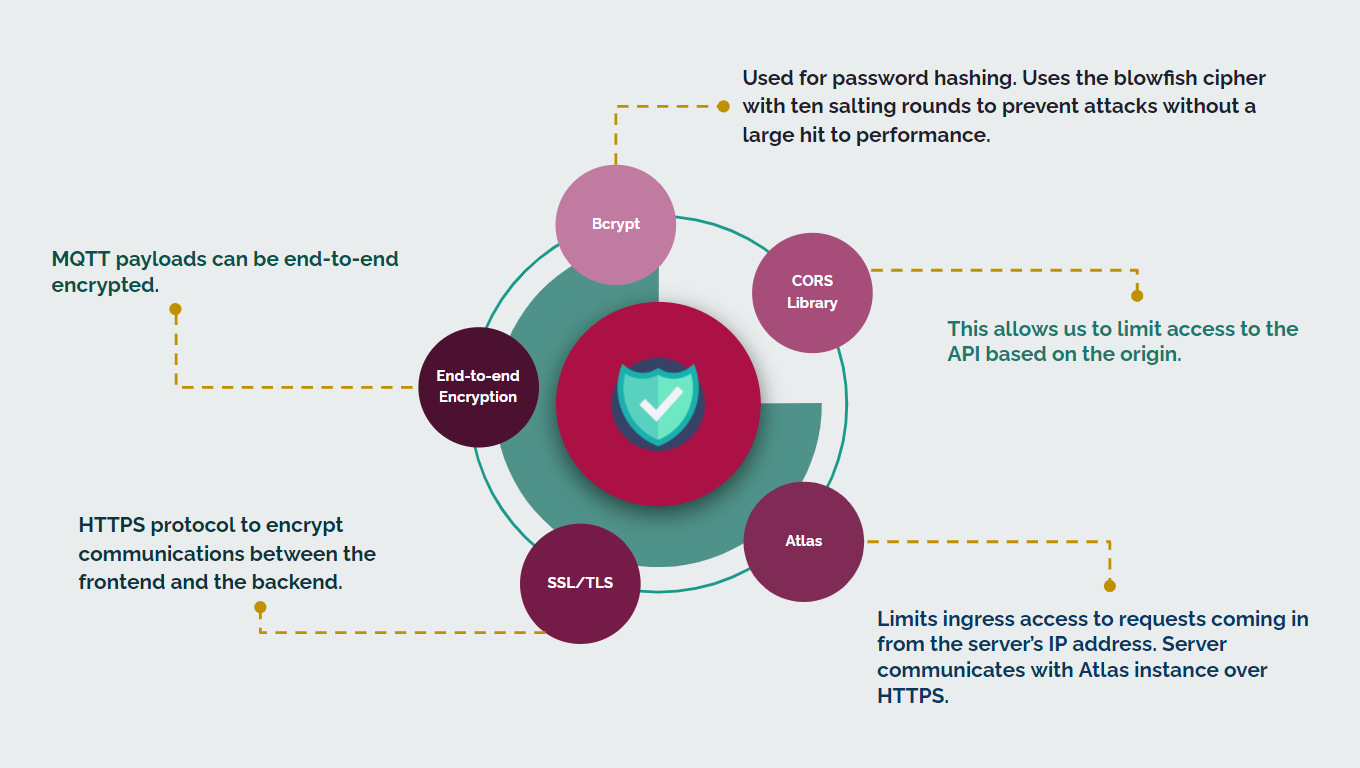
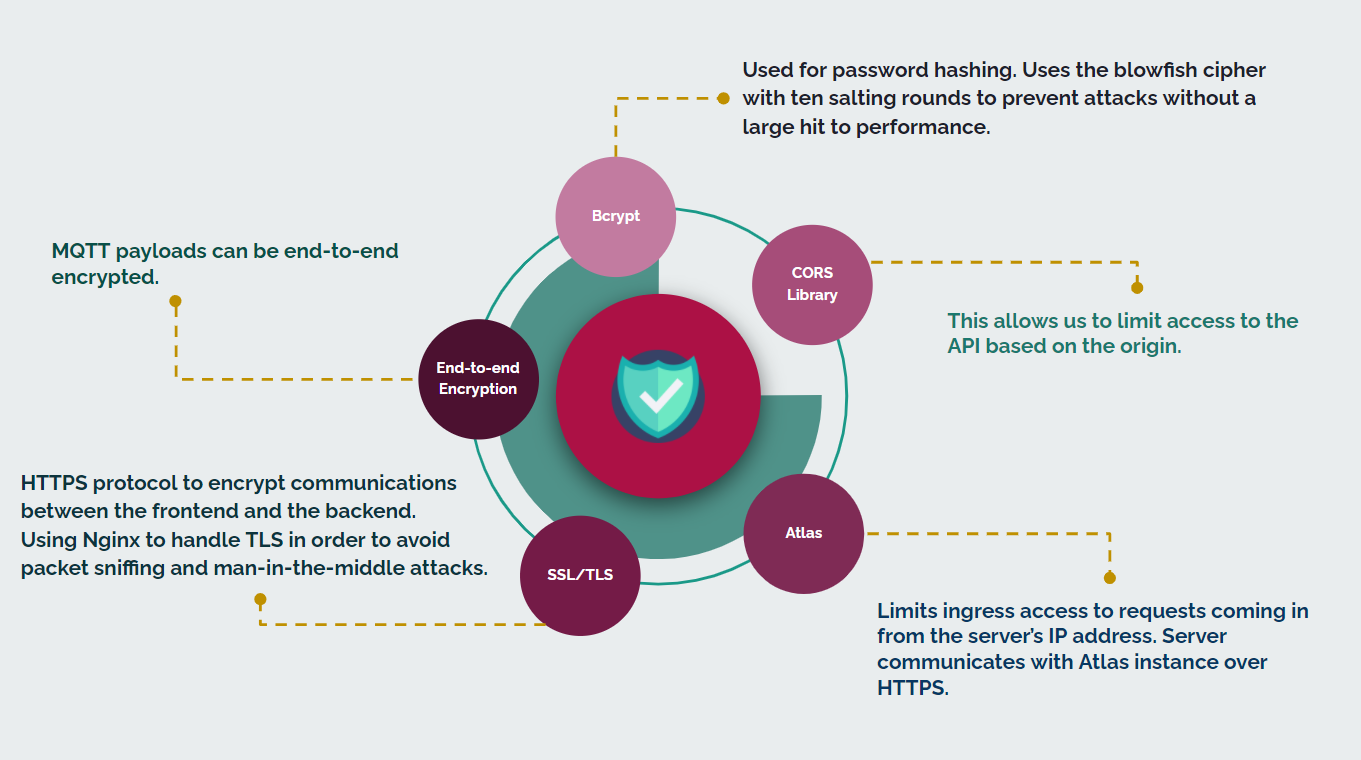
REST API testing in the website and the backend

diff --git a/docs/design.html b/docs/design.html
@@ -110,7 +110,7 @@
                 
                 <img src="images/SolArch.png" class="d-block rounded w-100 mb-5"  alt="Solution Architecture">
                 <ul>
-                 <p>Our solution architecture consists of entrance/exit Nodes, the parking spot nodes, the mobile app and management portal representing the frontend of the system 
+                 <p>Our solution architecture consists of entrance/exit nodes, the parking spot nodes, the mobile app and management portal representing the frontend of the system 
                    and the cloud server. The hardware nodes have been given their own power supplies and the all the frontend software and the hardware nodes 
                    are connected to the cloud server via Wi-Fi.
                  </p>
@@ -244,12 +244,12 @@
               </div>
 
               <ul>
-                <p>The data and control flow of the system gets initiated at the entrance node once a user enters into the parking lot. The licenese plate number 
-                  of that vehicle will be scanned by the entrance node and it will be sent to the server along with the check-in time. In the meantime, the mobile app 
-                  will authenticates the user using their location. Once a parking spot is sent by the server, the user will be guided to that spot through the use of clear images using the 
-                  mobile phone and the necessary updates will be made in the management portal. Once the user reaches the parking spot, the spot node will check and update the status of the spot (occupied or not). 
+                <p>The data and control flow of the system gets initiated at the entrance node once a user enters into the parking lot. The license plate number 
+                  of that vehicle will be read by the entrance node and it will be sent to the server along with the check-in time. In the meantime, the mobile app 
+                  will authenticates the user using their location. Once an empty parking spot number is sent by the server, the user will be guided to that spot through the use of clear images using the 
+                  mobile app and the necessary updates will be made in the management portal. Once the user reaches the parking spot, the spot node will check and update the status of the spot (occupied or not). 
                   Once the user leaves their assigned spot and reaches the exit node, the exit node will obtain the license plate number and the check-out time and will send that information to the server. 
-                  Once the cost has been processed by the server based on the hourly rate set by the managers of the parking lot, the amount to be paid will be sent to the mobile app while displaying the value on the LCD display.
+                  Once the cost has been processed by the server based on the hourly rate set by the managers of the parking lot, the amount to be paid will be sent to the mobile app and will be displayed on the LCD display.
                 </p>
                </ul>
               
@@ -380,8 +380,27 @@
               CORS (Cross-Origin Resource Sharing) is used for security to limit access to the API based on the orgin. 
               Atlas will limit ingress access to requests coming in from the server’s IP address (Server communicates with Atlas instance over HTTPS). 
               Access Management Control is deployed within the system by covering the 3A's; Authentication, Authorization and Accountability. 
-              Jsonwebtoken is used for user authentication, while using the location of the user checked at the entrance. We only allow GET method access for the mobile app users using CORS.
-              
+              Jsonwebtoken is used for user authentication, while the location of the user is checked at the entrance. We only allow GET method access for the mobile app users using CORS.
+              For authentication we wiil be passing the auth-token for every API request as a header. 
+              We are using Transport Layer Security (TLS) to secure the connection and the data. This technology encrypts data before it is sent from the client to the server, thus preventing some common hacks. 
+              Without TLS  POST requests will be visible so their network traffic is vulnerable to packet sniffing and man-in-the-middle attacks.
+              Utilizing Secure Socket Layer (SSL) encryption was done while using Nginx to handle TLS.
+
+
+             </p>
+            </ul>
+
+            <img src="images/security2.png" class="d-block rounded w-100 mb-5 mt-5"  alt="Solution Architecture">
+            <ul>
+             <p>Validatorjs is used in order to validate user input to limit SQL injections and XSS attacks.
+               This is done to validate every input for the frontend since some attackers can send sql commands or harmful java script code to execute. 
+               Validatorjs is used to prevent such attacks by checking whether the input is a valid email.
+               Using npm to manage our application’s dependencies is powerful and convenient. But the packages that we use may contain critical security vulnerabilities that could also affect our application.
+              To avoid such vulnerabilities, we will be using Snyk which offers both a command-line tool and a Github integration that checks our application against Snyk’s open source vulnerability database for 
+              any known vulnerabilities in our dependencies.
+
+              X-Powered-By reveals information about the technologies used in an app. 
+              Therefore, to avoid outsiders exploit server security weaknesses of our server technology we will disabling this header. 
 
 
              </p>

diff --git a/docs/development.html b/docs/development.html
@@ -148,7 +148,7 @@
           
           <ul class="mb-5 mt-5">
             <p>React Native was used to develop the mobile app for the car park users. They can utilize the app to make reservations and to add their vehicle details once registered.
-              The users will get push notifications for reservation confirmations and cancellations.
+              The users will get notifications for reservation confirmations and cancellations.
               Once assigned to a spot by the server, the mobile app will provide clear images to guide the user to the relevant parking spot. 
               The app can also be used to make payments once they are at the exit node.
             </p>
@@ -167,12 +167,45 @@
 				<div class="col-md-7 text-center heading-section ftco-animate">
 					<span class="subheading">Testing</span>
 					<h2 class="mb-3">The Plan for Testing</h2>
-				</div>
+
+        </div>
+          <img src="images/Testing.png" class="d-block rounded w-100 mb-5"  alt="The plan for testing">
+        </div>
+
+
 			</div>
+
+		</div>
+	</section>
+
+  <section class="ftco-section">
+		<div class="container">
+		
+			<div class="row justify-content-center mb-5">
+				<div class="col-md-7 text-center heading-section ftco-animate">
+					<span class="subheading">Testing</span>
+					<h2 class="mb-3">REST API Testing</h2>
+
+          
+        </div>
+          <img src="images/REST_API_testing/REST_API_test1.png" class="d-block mb-3 w-100"  alt="The plan for testing">
+          <img src="images/REST_API_testing/REST_API_test2.png" class="d-block mb-3 w-100"  alt="The plan for testing">
+          <img src="images/REST_API_testing/REST_API_test3.png" class="d-block mb-3 w-100"  alt="The plan for testing">
+          <img src="images/REST_API_testing/REST_API_test4.png" class="d-block mb-5 w-100"  alt="The plan for testing">
+        </div>
+
+        <ul class="mb-5">
+          <p>All the endpoints were tested for functionality.
+
+            Each endpoint handles valid requests and invalid requests with relevant success/error codes and appropriate data.
             
-            <img src="images/Testing.png" class="d-block rounded w-100"  alt="The plan for testing">
-				
+            Tested with both valid and invalid data for each endpoint.
+            
+            For more REST API test results and responses check the <a href="https://github.com/cepdnaclk/e17-3yp-E-Parking-System/tree/main/Backend" class="link-primary"> backend </a> in the repository.</p>
+        </ul>
+        
 			</div>
+
 		</div>
 	</section>
 
